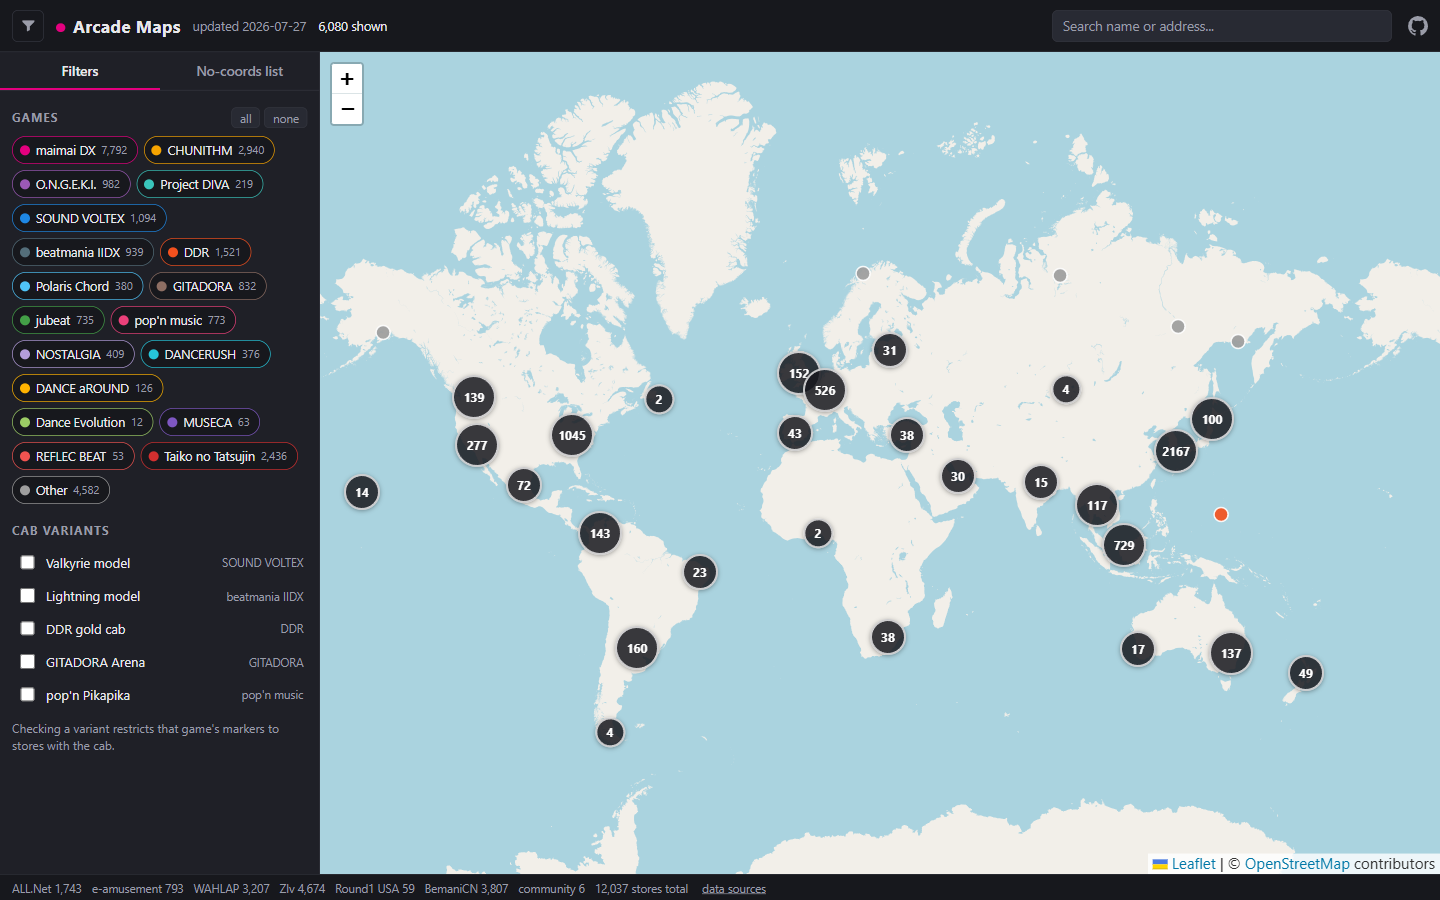
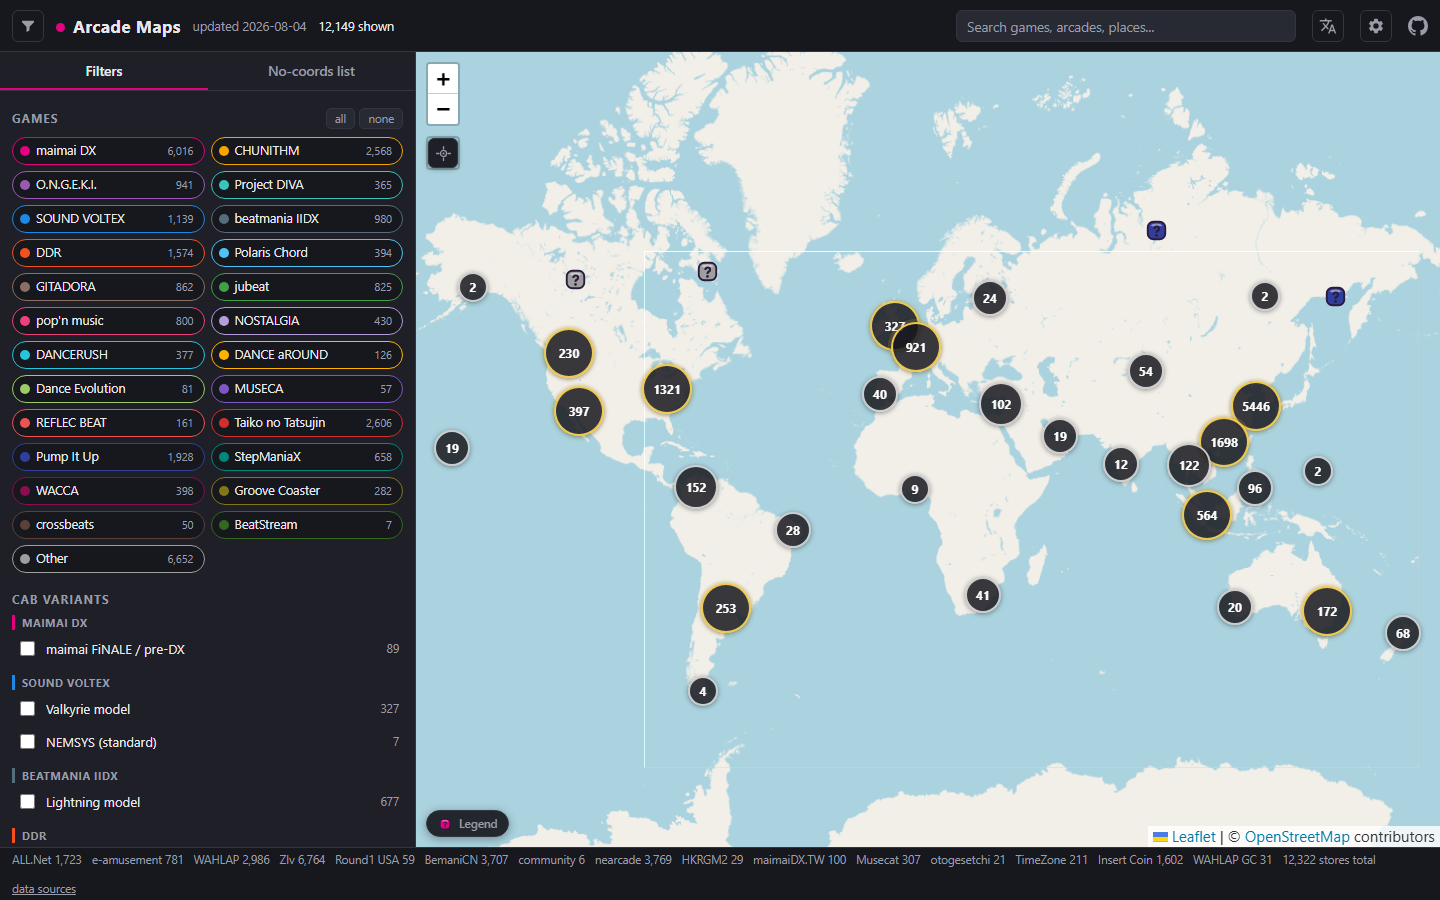
Refresh README screenshots and current dataset numbers
Replace the July world shot (old circle clusters, 6,080 shown) with a current capture, and add Akihabara marker, store-panel, mobile sheet, and Japanese UI images. Drop the unused live-site-tokyo.png. Headline counts now match data/stats.json (12,322 arcades, 69 countries, 5,054 venue photos).

diff --git a/tools/_capture_readme.py b/tools/_capture_readme.py
@@ -1,0 +1,161 @@
+#!/usr/bin/env python3
+"""Capture README screenshots from a local server.
+
+Writes into docs/. Waits for arcade data, Leaflet tiles, and markers
+so the old circle-cluster world shot is replaced with the current UI.
+"""
+from __future__ import annotations
+
+import http.server
+import socketserver
+import threading
+from pathlib import Path
+
+from playwright.sync_api import sync_playwright
+
+ROOT = Path(__file__).resolve().parents[1]
+OUT = ROOT / "docs"
+
+TOKYO = "13.2/35.6993/139.7710"
+AKI_ZOOM = "15.5/35.69926/139.77090"
+AKI_SID = "z2701"
+AKI_HASH = f"{AKI_ZOOM}/arcade={AKI_SID}"
+
+
+class Handler(http.server.SimpleHTTPRequestHandler):
+    def __init__(self, *a, **kw):
+        super().__init__(*a, directory=str(ROOT), **kw)
+
+    def log_message(self, fmt, *args):
+        pass
+
+
+def start_server():
+    httpd = socketserver.TCPServer(("127.0.0.1", 0), Handler)
+    port = httpd.server_address[1]
+    threading.Thread(target=httpd.serve_forever, daemon=True).start()
+    return httpd, port
+
+
+def wait_map(page, timeout_ms=90000):
+    page.wait_for_function(
+        """() => window.AM && AM.data && AM.data.arcades
+           && AM.data.arcades.length > 1000""",
+        timeout=timeout_ms,
+    )
+    page.wait_for_function(
+        """() => {
+          const tiles = [...document.querySelectorAll('.leaflet-tile-loaded')];
+          const marks = document.querySelectorAll('.leaflet-marker-icon');
+          return tiles.length >= 6 && marks.length >= 3;
+        }""",
+        timeout=timeout_ms,
+    )
+    page.wait_for_timeout(1200)
+
+
+def open_aki(page):
+    page.evaluate(
+        """() => {
+          const a = AM.data.bySid && AM.data.bySid['z2701'];
+          if (a) AM.state.set('selectedArcade', a.id, {focus:true, source:'hash'});
+        }"""
+    )
+
+
+def wait_place(page):
+    page.wait_for_function(
+        """() => {
+          const el = document.getElementById('place');
+          if (!el || el.hidden) return false;
+          const r = el.getBoundingClientRect();
+          return r.width > 80 && r.height > 120 && el.innerText.length > 40;
+        }""",
+        timeout=20000,
+    )
+    page.wait_for_timeout(800)
+
+
+def shot(page, name):
+    path = OUT / name
+    page.screenshot(path=str(path), full_page=False)
+    if path.suffix.lower() == ".jpg":
+        from PIL import Image
+        im = Image.open(path).convert("RGB")
+        im.save(path, "JPEG", quality=88, optimize=True, progressive=True)
+    print("wrote", path, path.stat().st_size)
+
+
+def main():
+    httpd, port = start_server()
+    base = "http://127.0.0.1:%d/" % port
+    print("serving", base)
+    with sync_playwright() as p:
+        browser = p.chromium.launch(headless=True)
+        desktop = browser.new_context(
+            viewport={"width": 1440, "height": 900},
+            device_scale_factor=1,
+            locale="en-US",
+        )
+        page = desktop.new_page()
+        page.goto(base, wait_until="domcontentloaded", timeout=120000)
+        page.evaluate("() => { localStorage.clear(); }")
+        page.reload(wait_until="domcontentloaded")
+        wait_map(page)
+        shot(page, "screenshot.png")
+
+        page.goto(base + "#" + AKI_ZOOM, wait_until="domcontentloaded")
+        wait_map(page)
+        shot(page, "readme-akihabara.jpg")
+
+        page.goto(base + "#" + AKI_HASH, wait_until="domcontentloaded")
+        wait_map(page)
+        open_aki(page)
+        wait_place(page)
+        shot(page, "readme-place.jpg")
+
+        page.evaluate("() => AM.i18n.setLang('ja', {force:true})")
+        page.wait_for_timeout(700)
+        open_aki(page)
+        wait_place(page)
+        shot(page, "readme-ja.jpg")
+
+        desktop.close()
+
+        phone = browser.new_context(
+            viewport={"width": 390, "height": 844},
+            device_scale_factor=2,
+            is_mobile=True,
+            has_touch=True,
+            locale="en-US",
+            user_agent=(
+                "Mozilla/5.0 (iPhone; CPU iPhone OS 17_0 like Mac OS X) "
+                "AppleWebKit/605.1.15 (KHTML, like Gecko) Version/17.0 "
+                "Mobile/15E148 Safari/604.1"
+            ),
+        )
+        mp = phone.new_page()
+        mp.goto(base + "#" + TOKYO, wait_until="domcontentloaded",
+                timeout=120000)
+        mp.evaluate("() => localStorage.clear()")
+        mp.reload(wait_until="domcontentloaded")
+        wait_map(mp)
+        # close the filter drawer so the map fills the phone
+        toggle = mp.locator("#drawer-toggle")
+        if toggle.count():
+            expanded = toggle.get_attribute("aria-expanded")
+            if expanded == "true":
+                toggle.click()
+                mp.wait_for_timeout(400)
+        mp.goto(base + "#" + AKI_HASH, wait_until="domcontentloaded")
+        wait_map(mp)
+        open_aki(mp)
+        wait_place(mp)
+        shot(mp, "readme-mobile-place.jpg")
+        browser.close()
+    httpd.shutdown()
+    print("done")
+
+
+if __name__ == "__main__":
+    main()

diff --git a/README.md b/README.md
@@ -7,13 +7,29 @@
 
 Worldwide rhythm game arcade locations on one interactive map. Arcade Maps tracks where you can play CHUNITHM, maimai DX, ONGEKI, SOUND VOLTEX, beatmania IIDX, DanceDanceRevolution, Polaris Chord, GITADORA, jubeat, pop'n music, Nostalgia, DANCERUSH STARDOM, DANCE aROUND, Project DIVA Arcade, Pump It Up, StepManiaX, WACCA, Groove Coaster, crossbeats, BeatStream, and community-tracked games including Taiko no Tatsujin. The data is rebuilt automatically from official operator sources (SEGA ALL.Net, Konami e-amusement, WAHLAP) plus the Zenius-I-Vanisher and BemaniCN community databases, committed to this repo on a weekly schedule, and served as a fast static Leaflet map on GitHub Pages.
 
-**Current dataset (last rebuild):** 11,967 arcades across 68 countries (191 cross-source duplicates were unified by romanization-aware matching, so a Japanese official listing and its romaji community twin now share one pin; a further 124 where two sources geocoded the same venue more than 120 m apart - ALL.Net's fullwidth "アミューズメントパークＭＧ西条" and e-amusement's "アミューズメントパークMG西条店" were one store drawn as two icons; and 22 in Hong Kong and Macau, where the official English listing and BemaniCN's Chinese one share no characters at all and are bridged by the street number, the operator's Latin branding, or the Cantonese reading of the Chinese name - 碧富遊戲機 on 和宜合道 is PIK FU GAME CENTRE on Wo Yi Hop Road). Sources include SEGA ALL.Net, Konami eagate, WAHLAP China, BemaniCN, Round1 USA, and Zenius-I-Vanisher (65 country queries, plus a United States per-series crawl).
+**Current dataset (last rebuild 2026-08-04):** 12,322 arcades across 69 countries (191 cross-source duplicates were unified by romanization-aware matching, so a Japanese official listing and its romaji community twin now share one pin; a further 124 where two sources geocoded the same venue more than 120 m apart - ALL.Net's fullwidth "アミューズメントパークＭＧ西条" and e-amusement's "アミューズメントパークMG西条店" were one store drawn as two icons; and 22 in Hong Kong and Macau, where the official English listing and BemaniCN's Chinese one share no characters at all and are bridged by the street number, the operator's Latin branding, or the Cantonese reading of the Chinese name - 碧富遊戲機 on 和宜合道 is PIK FU GAME CENTRE on Wo Yi Hop Road). Sources include SEGA ALL.Net, Konami eagate, WAHLAP China, BemaniCN, Round1 USA, and Zenius-I-Vanisher (65 country queries, plus a United States per-series crawl).
 
 ## Live map
 
 **https://jonathanliu1401.github.io/Arcade-Maps/**
 
-![Arcade Maps site](docs/screenshot.png)
+World view, 12,149 plottable pins (the rest are address-only and live in the no-coords list):
+
+![Arcade Maps world view with game filters](docs/screenshot.png)
+
+Akihabara at street zoom. Each store is a chibi tier icon tinted by its games, not a numbered circle:
+
+![Akihabara with tiered arcade markers](docs/readme-akihabara.jpg)
+
+Store panel for GiGO Akihabara 3: venue photos, cab counts, hours, and measured prices.
+
+![Store detail panel for GiGO Akihabara 3](docs/readme-place.jpg)
+
+The same store on a phone (bottom sheet) and with the UI in Japanese:
+
+![Mobile bottom sheet for GiGO Akihabara 3](docs/readme-mobile-place.jpg)
+
+![Japanese UI for the same store](docs/readme-ja.jpg)
 
 ## Features
 
@@ -23,14 +39,14 @@ Worldwide rhythm game arcade locations on one interactive map. Arcade Maps track
 - Nearby search: the locate button (or any store's Nearby button) ranks the closest arcades by great-circle distance with a compass bearing, and honours whatever game, cab and source filters are active
 - Settings you keep: turn individual data sources off, flatten the marker size ramp so every icon draws at 25px (the tier shapes stay), and disable location features entirely. Choices persist per device in localStorage and never travel in a shared link. The on-map legend is a click-to-expand chip, not a setting
 - Tiered kawaii markers: each store draws one of six original chibi-style icons by total cabinet count (note, button pad, star, cat-ear chibi at 20-49 cabs, crowned idol at 50+, and a "?" pad when no source publishes a count). Each icon is tinted by the store's game colour, tiers only use counts a source actually reported, and at the deepest zoom a stacked bundle fans out (spiderfies) when you click it, so overlapping stores stay clickable
-- Venue photos in the detail panel: 5,101 of 11,967 arcades (42.6%) now carry a real photo of that venue, shown as a slideshow when there is more than one and credited to the community member who took it. When a store has none, the panel falls back to a CC-licensed photo of one of its cabinets from Wikimedia Commons (with the required author/license credit rendered on the image), then to a game-colour banner. Coverage is uneven by design of the sources, not by choice: 65.3% in China (mirrored BemaniCN thumbnails), 37.6% in the United Kingdom, 35.3% in the United States, and only 3.3% in Japan. See "Photo coverage" below for why Japan is the outlier
+- Venue photos in the detail panel: 5,054 of 12,322 arcades (41.0%) now carry a real photo of that venue, shown as a slideshow when there is more than one and credited to the community member who took it. When a store has none, the panel falls back to a CC-licensed photo of one of its cabinets from Wikimedia Commons (with the required author/license credit rendered on the image), then to a game-colour banner. Coverage is uneven by design of the sources, not by choice: about two thirds in China (mirrored BemaniCN thumbnails), about a third in the United Kingdom and the United States, and only 3.3% in Japan. See "Photo coverage" below for why Japan is the outlier
 - Resizable sidebar: drag the panel edge to any width (double-click resets), remembered per device
 - Shareable URLs: the hash carries the map view plus selected games and cabs, and the Share button adds the exact store, so a link reopens on what you were looking at
 - Official-source data: SEGA ALL.Net, Konami eagate facility search, and WAHLAP (China) are scraped directly, not copied from other maps
-- Community coverage where official sources stop: Zenius-I-Vanisher fills in worldwide arcades (65 countries queried at the last pull), Taiko, offline cabs for retired games, and the extra series a US per-series crawl reaches. Six of those now have layers of their own rather than sitting in the grey "Other" chip: Pump It Up (1,557 venues), StepManiaX (596), WACCA (253), Groove Coaster (224), crossbeats (50) and BeatStream (8). In The Groove, Guitar Hero Arcade, Beat Saber and StepMania still map to Other
+- Community coverage where official sources stop: Zenius-I-Vanisher fills in worldwide arcades (65 countries queried at the last pull), Taiko, offline cabs for retired games, and the extra series a US per-series crawl reaches. Six of those now have layers of their own rather than sitting in the grey "Other" chip: Pump It Up (1,958 venues), StepManiaX (659), WACCA (403), Groove Coaster (316), crossbeats (50) and BeatStream (8). In The Groove, Guitar Hero Arcade, Beat Saber and StepMania still map to Other
 - Machine counts where sources report them, each labelled with the evidence behind it: `game_counts` covers 4,470 arcades (33.0%; BemaniCN raw coverage is ~94% of its shops), and a parallel `count_evidence` records per game slug whether the number is a published quantity (`bemanicn_qty`), a human writing "12 machines" on the listing (`ziv_comment`), or simply the number of machine rows on a ZIv page (`ziv_listed`, a FLOOR rather than a total). A `ziv_listed` count of 1 renders nothing at all: ZIv lists one row per title regardless of how many cabinets stand behind it, so "x1" would be a number no source published. Cabinet-variant pills follow the same rule one level down through `cab_models`, and only take a quantity when the listing comment NAMES the cabinet model
 - Measured prices, not guessed ones: `scrapers/prices.py` derives a per-country per-game figure from the real quoted prices in the listings and tiers it by how much evidence there is - measured (5 or more quotes), sparse (2 to 4, shown with a caveat), unknown (renders nothing rather than a fabrication). The current table holds 116 measured cells, 113 sparse and 87 unknown across 29 countries. This replaced a hand-written country table that asserted "HKD 8-15/play typical" for Hong Kong, where every listing in the dataset quotes HK$6.00. Weekly USD FX rates come from Frankfurter (ECB) with open.er-api.com gap-fill, so the site can show a local price and a converted estimate
-- Community enrichment: `data/enrichment.json` covers 9,571 of the 11,967 arcades - opening hours (5,865), venue info text (4,231), a website (4,122), free-text machine prices per game (3,656), and venue photos (5,101). The text fields are all ZIv; the photos that reach the shipped file come from ZIv and BemaniCN only. `scrapers/enrich.py` also parses the other BemaniCN fields (transit prose, venue coin/token price, per-title coins per play, game versions, favourite counts), but photos are the only BemaniCN data that has landed in the shipped file so far
+- Community enrichment: `data/enrichment.json` covers 9,505 of the 12,322 arcades - opening hours (5,972), venue info text (4,113), a website (4,044), free-text machine prices per game (3,647), and venue photos (5,054). The text fields are all ZIv; the photos that reach the shipped file come from ZIv and BemaniCN only. `scrapers/enrich.py` also parses the other BemaniCN fields (transit prose, venue coin/token price, per-title coins per play, game versions, favourite counts), but photos are the only BemaniCN data that has landed in the shipped file so far
 - Directions: every store links out to Google Maps, by coordinate when it has one and by name + address search when it does not
 - Street-level China placement, still labelled approximate: coordinate-less mainland China addresses are geocoded through Baidu's keyless public endpoint and the answers are committed to `data/china_geocode.json`, which moved China from 2,090 distinct coordinates to 5,305. Every one of those pins still carries `approx: true`, and the reason is worth reading rather than skipping. See the China accuracy disclosure below
 - Automated freshness: a GitHub Action re-scrapes weekly and commits the diff, so the badge above tells you exactly how stale the data is
@@ -70,11 +86,11 @@ Refreshing the cache is opt-in and never part of a normal build, because it is h
 
 ## Photo coverage
 
-**5,101 of 11,967 arcades (42.6%) have a real photo of the venue**, from two sources in the shipped file: BemaniCN thumbnails mirrored into `assets/venues/` (3,100 arcades) and ZIv community uploads (2,001). A third source, a small hand-reviewed set from Wikimedia Commons, is harvested into `data_raw/chain_photos.json` (48 image records) but **currently reaches no arcade on the map**: `photos.index_by_source_url()` keys the join on `ziv:<id>` / `bemanicn:<id>` derived from `page_url`, and a `commons.wikimedia.org` page URL produces no key, so `enrich.py` drops every Commons-only photo. Shipped enrichment contains zero of them. The BemaniCN images are mirrored rather than linked because that site serves them from signed URLs that expire within the hour, so a stored link would be dead by the time anybody clicked it. Licence position, per-file attribution and the takedown path are in [`assets/venues/ATTRIBUTION.md`](assets/venues/ATTRIBUTION.md). `scrapers/photo_quality.py` ranks each venue's photos from their file headers (dimensions, aspect, bytes per pixel, and the upload timestamp in the filename) so the best one takes the hero slot instead of whichever came back first.
+**5,054 of 12,322 arcades (41.0%) have a real photo of the venue**, from two sources in the shipped file: BemaniCN thumbnails mirrored into `assets/venues/` (3,095 arcades) and ZIv community uploads (1,959). A third source, a small hand-reviewed set from Wikimedia Commons, is harvested into `data_raw/chain_photos.json` (48 image records) but **currently reaches no arcade on the map**: `photos.index_by_source_url()` keys the join on `ziv:<id>` / `bemanicn:<id>` derived from `page_url`, and a `commons.wikimedia.org` page URL produces no key, so `enrich.py` drops every Commons-only photo. Shipped enrichment contains zero of them. The BemaniCN images are mirrored rather than linked because that site serves them from signed URLs that expire within the hour, so a stored link would be dead by the time anybody clicked it. Licence position, per-file attribution and the takedown path are in [`assets/venues/ATTRIBUTION.md`](assets/venues/ATTRIBUTION.md). `scrapers/photo_quality.py` ranks each venue's photos from their file headers (dimensions, aspect, bytes per pixel, and the upload timestamp in the filename) so the best one takes the hero slot instead of whichever came back first.
 
 Coverage is very uneven, and two of the gaps are worth stating plainly:
 
-- **Japan is 3.3%** (46 of 1,397), the worst of any major market. Japanese chain store pages scrape at 95 to 100 percent technically, and are unusable anyway: Taito and namco explicitly forbid copying, transmitting or deep-linking their images, which is exactly what embedding them on a public map would be. Those chains are therefore link-outs to the official store page, and a link-out counts as zero coverage.
+- **Japan is 3.3%** (46 of 1,396), the worst of any major market. Japanese chain store pages scrape at 95 to 100 percent technically, and are unusable anyway: Taito and namco explicitly forbid copying, transmitting or deep-linking their images, which is exactly what embedding them on a public map would be. Those chains are therefore link-outs to the official store page, and a link-out counts as zero coverage.
 - **Street-level imagery was measured and rejected.** KartaView, Mapillary, Wikimedia Commons geosearch, OSM `image=*` tags and Wikidata P18 were probed against a fixed-seed sample of 210 arcades. Only 5.2% of arcades have any street-level photo with a camera even pointed at them, and of the best-case frames actually downloaded and looked at, 0 of 7 showed an arcade: all were windshield dashcam shots of asphalt, because dashcams photograph roads rather than shops. The full measurement lives in `data_raw/streetlevel_imagery_probe.json` so nobody has to redo it.
 
 **Google Places photos are an optional fourth source**, off by default and a clean no-op without an API key. Place IDs are cached (Google's terms exempt them explicitly); photos are fetched in the browser when a panel opens and are never stored anywhere, because the terms forbid caching those. Setup, costs, and how a match is verified before it is trusted: [docs/GOOGLE_PHOTOS.md](docs/GOOGLE_PHOTOS.md).
@@ -113,7 +129,7 @@ Deep per-source detail (exact URLs, parse markers, caveats): [docs/DATA_SOURCES.
 
 - **China coordinates are approximate.** WAHLAP and BemaniCN publish addresses without lat/lng, so almost every China pin is geocoded from its printed address and carries `approx: true`. A POI search answers with a building, not necessarily with THIS building. See the China accuracy disclosure above.
 - **BemaniCN map layers are login-walled.** Public endpoints give addresses + game lists + per-title machine counts + one venue thumbnail; exact coordinates still require a login the scraper does not use. The shop detail pages also expose transit prose, prices and hours, but the crawl behind the shipped `data_raw/china_bemanicn.json` captured none of those, so photos are the only BemaniCN field reaching `data/enrichment.json` today.
-- **Photo coverage is thin in Japan and Taiwan** (3.3% and 3.4%) because the chains that dominate those markets forbid embedding their store imagery. See "Photo coverage" above.
+- **Photo coverage is thin in Japan and Taiwan** (3.3% and about 8%) because the chains that dominate those markets forbid embedding their store imagery. See "Photo coverage" above.
 - **CHUNITHM US:** SEGA's ALL.Net locator currently lists zero official CHUNITHM locations in the US. US CHUNITHM cabs appear only via community sources (ZIv) and the Round1 lineup assumption.
 - **Konami overseas:** the eagate facility search is Japan-only, so overseas Bemani cabs (US Round1, Asia, Europe) come only from ZIv / community data.
 - **Near-extinct games:** Project DIVA Arcade, MUSECA, REFLEC BEAT, and DanceEvolution have almost no surviving official listings; they are tracked mostly through ZIv offline-cab records.
@@ -167,6 +183,8 @@ Arcade-Maps/
 |  |- stamp_assets.py    content-hash ?v= stamps on the css/js in index.html
 |- mymaps/               numbered KMZ layers for My Maps import (+ README)
 |- docs/
+|  |- screenshot.png     README world-view capture
+|  |- readme-*.jpg       README UI captures (Akihabara, place panel, mobile, ja)
 |  |- ARCHITECTURE.md    pipeline, data schema, design decisions
 |  |- DATA_SOURCES.md    per-source URLs, parse markers, caveats
 |  |- GOOGLE_PHOTOS.md   optional Google Places photos: setup, cost, match rules
